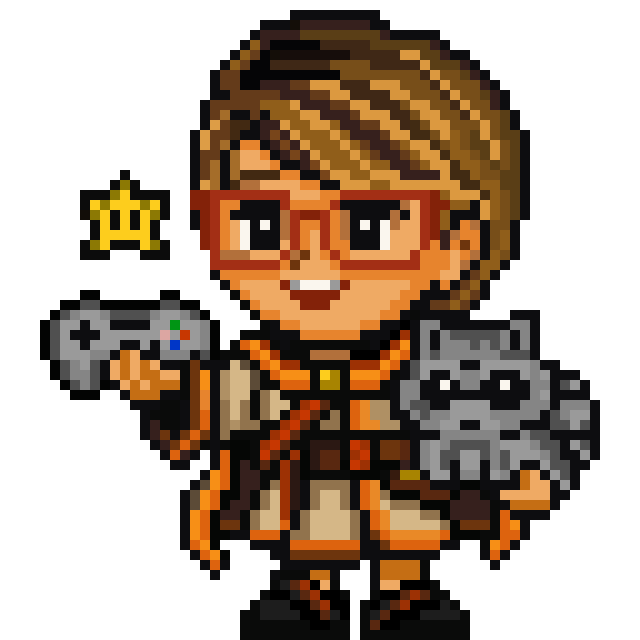
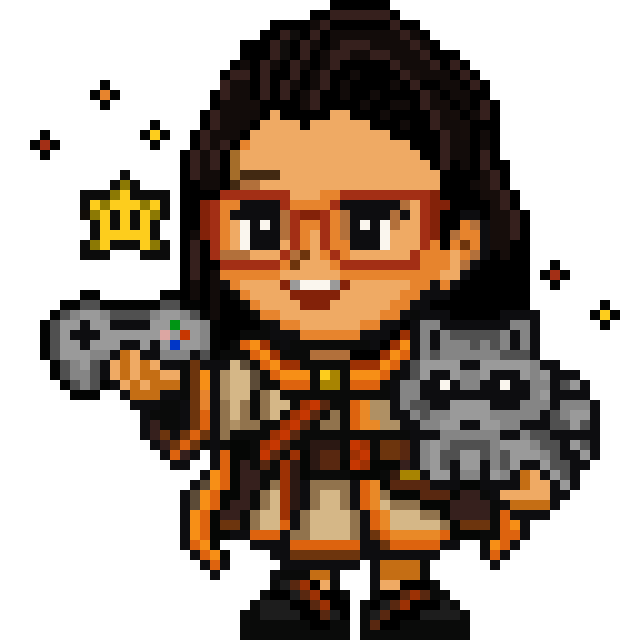
Feature/update speakers (#19)
* feat(speakers): update Cristina G. Aradas (Mapache) profile info

diff --git a/src/components/Speakers/speakers-data-i18n.ts b/src/components/Speakers/speakers-data-i18n.ts
@@ -11,6 +11,7 @@ import BorjaRealImage from "@img/speakers/Borja-real.jpg";
 import AntonioImage from "@img/speakers/Antonio-x64.png";
 import PilarImage from "@img/speakers/Pilar-x64.png";
 import CristinaImage from "@img/speakers/Cristina-x64.png";
+import CristinaRealImage from "@img/speakers/Cristina-real.jpeg";
 import DiegoImage from "@img/speakers/Diego-x64.png";
 import NachoImage from "@img/speakers/Nacho-x64.png";
 import NachoRealImage from "@img/speakers/Nacho-real.png";
@@ -145,16 +146,25 @@ export function getSpeakersData(locale: Locale): Speaker[] {
     },
     {
       id: "speaker-4",
-      name: "Cristina Rodríguez",
+      name: "Cristina G. Aradas (Mapache)",
       talkTitle: speakersData["speaker-4"].talkTitle,
       talkDescription: speakersData["speaker-4"].talkDescription,
       talkFormat: "taller",
-      tag: "Diseño",
+      tag: "Videojuegos",
       role: speakersData["speaker-4"].role,
       summary: speakersData["speaker-4"].summary,
-      image: { src: CristinaImage.src, alt: "Retrato de Cristina Rodríguez" },
-      socials: [],
-      isRevealed: false,
+      image: { src: CristinaImage.src, alt: "Retrato de Cristina G. Aradas" },
+      imageReal: {
+        src: CristinaRealImage.src,
+        alt: "Fotografía de Cristina G. Aradas",
+      },
+      socials: [
+        {
+          label: "LinkedIn",
+          url: "https://www.linkedin.com/in/cristina-garcía-aradas-074154135",
+        },
+      ],
+      isRevealed: true,
       flipImage: true,
     },
     {
